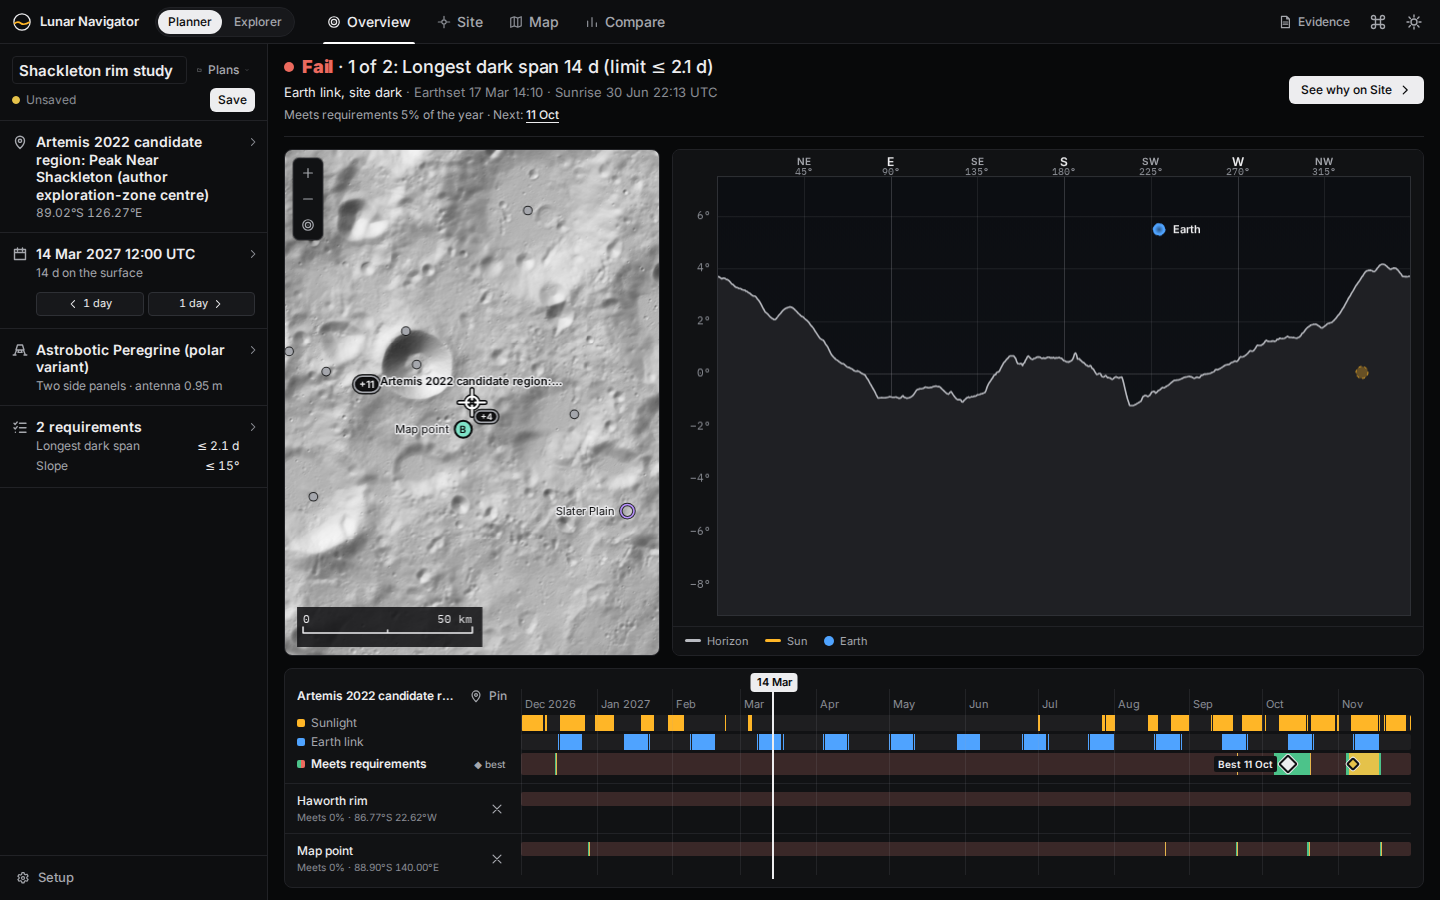
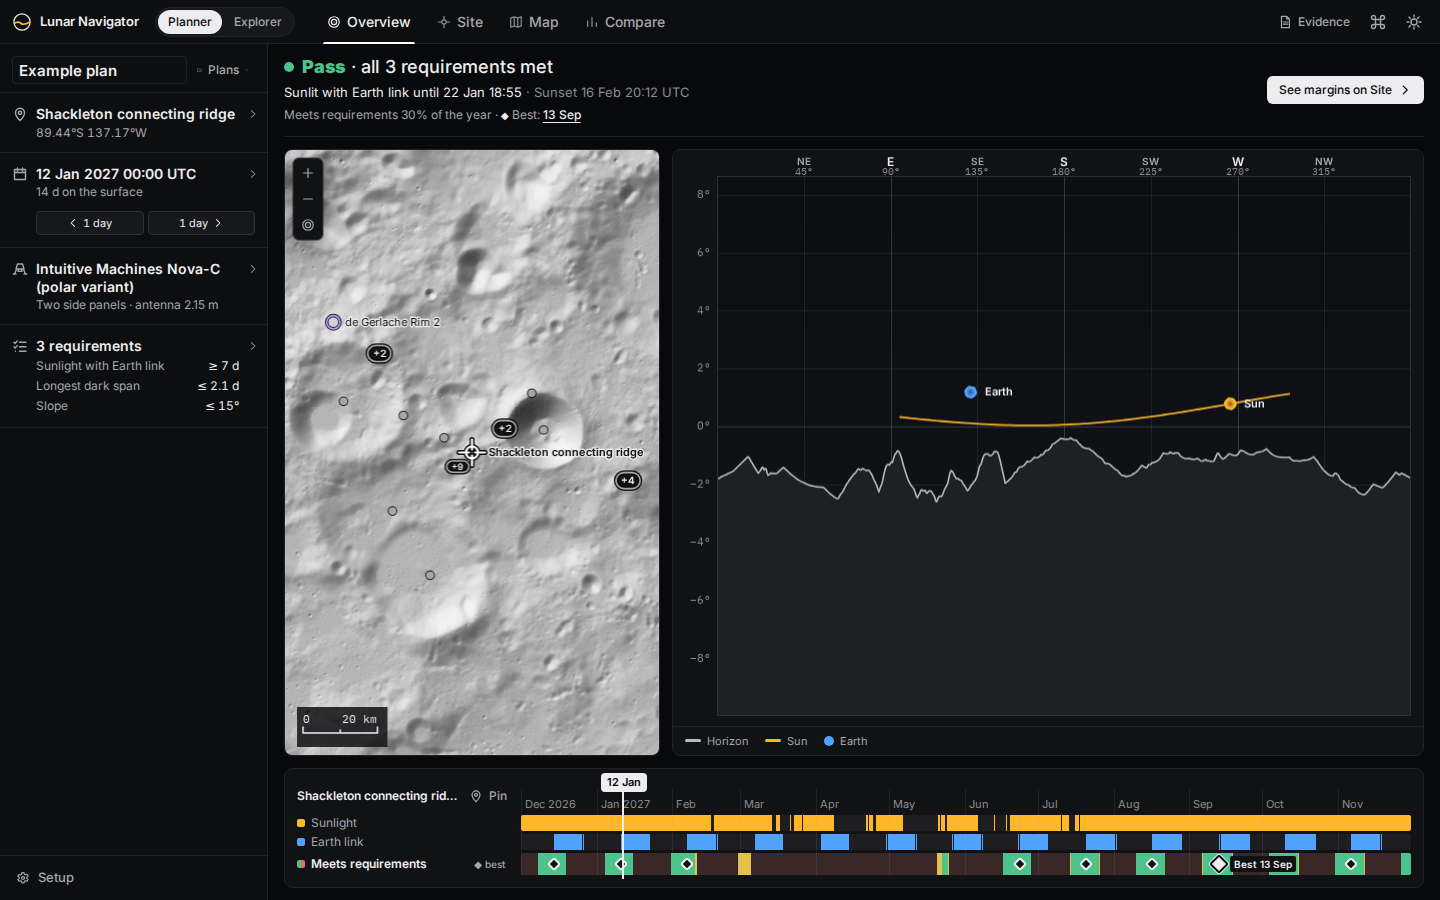
docs: overview screenshots from the example plan; drop two stylesheet comments

diff --git a/web/src/styles/viz.css b/web/src/styles/viz.css
@@ -146,7 +146,6 @@
   background: var(--text-2);
 }
 
-/* next events */
 .cd-list { list-style: none; margin: 0; padding: 0; display: flex; flex-direction: column; }
 .cd-row { display: grid; grid-template-columns: auto minmax(0, 1fr) auto auto; grid-template-areas: "dot name in act" ". when when when"; align-items: baseline; column-gap: var(--sp-2); row-gap: 2px; width: 100%; padding: var(--sp-1-5) var(--sp-1); font-size: var(--fs-sm); text-align: left; color: var(--text); }
 .cd-btn { background: none; border: 0; border-radius: var(--r-sm); cursor: pointer; font-family: inherit; }
@@ -163,7 +162,6 @@
 .cd-range { color: var(--text-3); }
 .cd-none { margin: var(--sp-1) 0 0; padding: 0 var(--sp-1); font-size: var(--fs-xs); color: var(--text-3); }
 
-/* requirements */
 .cp { width: 100%; border-collapse: collapse; table-layout: auto; font-size: var(--fs-sm); }
 .cp th, .cp td { padding: var(--sp-1-5) var(--sp-2); text-align: left; vertical-align: baseline; border-bottom: var(--hairline) solid var(--border); font-weight: var(--fw-regular); }
 .cp thead th { font-size: var(--fs-xs); color: var(--text-3); white-space: nowrap; }
